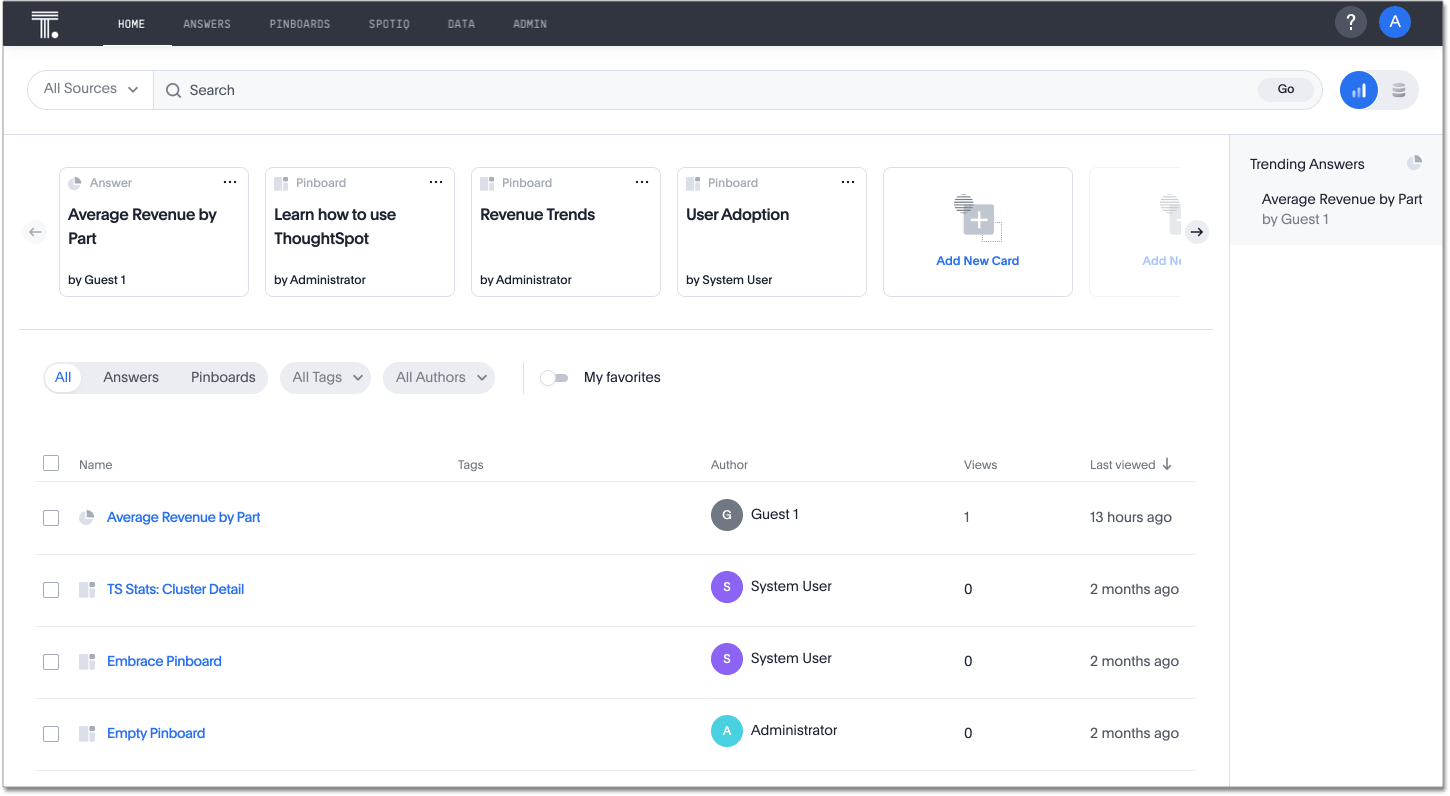
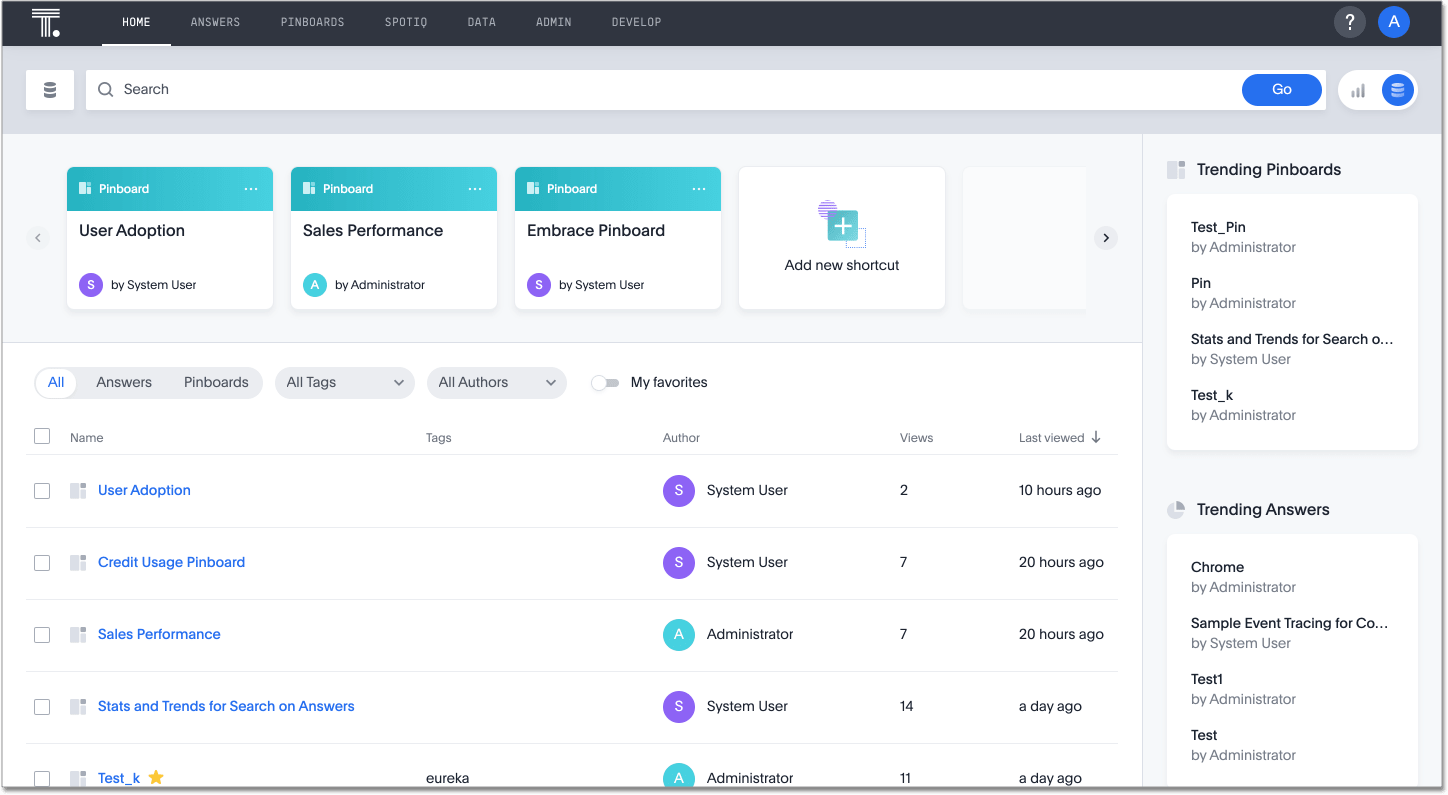
SCAL-82442, 82443, 82444 sticky search toggle, new home page screenshots, faster indexing

diff --git a/index.html b/index.html
@@ -39,8 +39,9 @@ title: ThoughtSpot Cloud Documentation
       <a href="{{ "/complex-search/linked-filters.html"| prepend: site.baseurl }}">Linked Pinboard Filters </a><br>
       <a href="{{ "/complex-search/selective-filters.html"| prepend: site.baseurl }}">Selective Pinboard Filters </a><br>
       <a href="{{ "/admin/thoughtspot-one/query-intelligence-pinboard.html"| prepend: site.baseurl }}">Search on Answers Pinboard </a><br>
-      <a href="{{ site.baseurl }}/spotiq/customization.html">Custom SpotIQ analysis </a><br>
-      <a href="{{ site.baseurl }}/reference/api/pinboard-export-api.html">Pinboard Export API</a>
+      <a href="{{ site.baseurl }}/spotiq/customization.html">Custom SpotIQ analysis <span class="badge badge-update">Update</span></a><br>
+      <a href="{{ site.baseurl }}/reference/api/pinboard-export-api.html">Pinboard Export API</a><br>
+      <a href="{{ site.baseurl }}/reference/api/tml-api.html">TML Import, Export, and Validate API <span class="badge badge-update">New!</span></a>
 
   </div>
   <div class="grid-child">
@@ -70,7 +71,7 @@ title: ThoughtSpot Cloud Documentation
       <a href="{{ "/admin/ts-cloud/style-customization.html"| prepend: site.baseurl }}">Style Customization </a><br>
       <a href="{{ "/admin/ts-cloud/customize-help.html"| prepend: site.baseurl }}">Help Customization </a><br>
       <a href="{{ "/admin/ts-cloud/use-agreement.html"| prepend: site.baseurl }}">Use Agreement </a><br>
-      <a href="{{ "/admin/ts-cloud/performance-tracking.html"| prepend: site.baseurl }}">Performance Tracking <span class="badge badge-update">Update</span></a><br>
+      <a href="{{ "/admin/ts-cloud/performance-tracking.html"| prepend: site.baseurl }}">Performance Tracking </a><br>
       <a href="{{ "/admin/ts-cloud/user-adoption.html"| prepend: site.baseurl }}">User Adoption Pinboard </a>
       <a href="{{ "/admin/ts-cloud/consumption-pricing.html"| prepend: site.baseurl }}">Consumption-based Pricing </a></p>
   </div>

diff --git a/_admin/thoughtspot-one/synonyms.md b/_admin/thoughtspot-one/synonyms.md
@@ -1,11 +1,11 @@
 ---
 title: [Create Worksheet synonyms for search on Answers]
 summary: "Create synonyms for column names in your Worksheets to support search on existing Answers and Pinboards."
-last_updated: 4/5/2021
+last_updated: 4/6/2021
 sidebar: mydoc_sidebar
 permalink: /:collection/:path.html
 ---
-As an analyst, you want to create the best search experience possible for your users. You can enhance the search experience of the content built on Worksheets you own or maintain by adding common search terms to your Worksheet glossary. For example, your users may be searching for information about `products`, but the column name may be `product full name`. You can make `products` a synonym of `product full name`, so users can easily find this information. The **Search terms** section on each Worksheet lists the most common search terms for the Worksheet that result in no or few matches in the system, so you can map them to the correct column name. This feature is in <span class="label label-beta">Beta</span> and off by default; [contact ThoughtSpot Support]({{ site.baseurl }}/admin/misc/contact.html) to enable it. This feature depends on Mixpanel tracking.
+As an analyst, you want to create the best search experience possible for your users. You can enhance the search experience of the content built on Worksheets you own or maintain by adding common search terms that the system cannot find a good match for to your Worksheet glossary. For example, your users may be searching for information about `products`, but the column name may be `product full name`. You can make `products` a synonym of `product full name`, so users can easily find this information. The **Search terms** section on each Worksheet lists the most common search terms for the Worksheet that do not match with any columns in the Worksheet, so you can map them to the correct column name. This feature is in <span class="label label-beta">Beta</span> and off by default; [contact ThoughtSpot Support]({{ site.baseurl }}/admin/misc/contact.html) to enable it. This feature depends on Mixpanel tracking.
 
 To add common search terms with no matches to your Worksheet glossary, follow these steps:
 
@@ -13,7 +13,7 @@ To add common search terms with no matches to your Worksheet glossary, follow th
 
 2. Select **Search Terms** from the navigation bar under the Worksheet name.
 
-3. If users have not had any problems searching for or creating their own Answers and Pinboards built on this Worksheet, the system displays the message "No vocabulary issues found." If users are having trouble, the system displays a list of search terms and encourages you to build the Worksheet's glossary.
+3. If users have not had any problems searching for or creating their own Answers and Pinboards built on this Worksheet, the system displays the message "No search terms found." If users are having trouble, the system displays a list of search terms and encourages you to build the Worksheet's glossary.
 
 4. On the **Select a search term** pane on the left side of the screen, you see a list of common search terms with no or few matches. Users often search for these terms, but do not click on anything, or the search does not generate any results.
 

diff --git a/_includes/content/new-features-cloud-release.md b/_includes/content/new-features-cloud-release.md
@@ -19,11 +19,6 @@ The latest release of ThoughtSpot Cloud contains several new and enhanced featur
 </ul>
 </dd></dlentry>
 
-<dlentry id="synonyms">
-<dt>Create Worksheet synonyms for search on Answers</dt>
-<dd><p>You can enhance the search experience of the content built on Worksheets you own or maintain by adding common search terms to your Worksheet glossary. This feature allows you to support the way your users search on existing Answers and Pinboards. See <a href="{{ site.baseurl }}/admin/thoughtspot-one/synonyms.html">Create Worksheet synonyms for search on Answers</a>.</p>
-<p>This feature is in <span class="label label-beta">Beta</span> and off by default; <a href="{{ site.baseurl }}/admin/misc/contact.html">contact ThoughtSpot Support</a> to enable it.</p></dd></dlentry>
-
 <dlentry id="query-dashboard">
 <dt>Enhancements to the Search on Answers Pinboard</dt>
 <dd>The <a href="{{ site.baseurl }}/admin/thoughtspot-one/query-intelligence-pinboard.html">Search on Answers Pinboard</a> contains several new or updated visualizations, including <strong>Top search queries on existing Answers</strong>, <strong>Position at which users are clicking</strong>, and <strong>What results users are finding useful with autocomplete suggestions</strong>. These new visualizations provide more information about click position, what information users look for, and what information they cannot find. You can also view the <a href="{{ site.baseurl }}/admin/thoughtspot-one/query-intelligence-pinboard.html#best-practices">best practices</a> for this Pinboard.
@@ -43,6 +38,14 @@ The latest release of ThoughtSpot Cloud contains several new and enhanced featur
 <p> Refer to <a href="{{ site.baseurl }}/admin/ts-cloud/new-answer-experience">New Answer experience</a> for more information on the behavior of these features.</p>
 
 </dd></dlentry>
+
+<dlentry id="sticky-search-toggle">
+<dt>Sticky Search Answers/ Search Data toggle</dt>
+<dd>This release makes the Search Answers/ Search Data toggle <img src="{{ site.baseurl }}/images/search-toggle-answers.png" alt="search toggle" class="inline"/> sticky. ThoughtSpot now remembers your choice across sessions when you switch between <a href="{{ site.baseurl }}/end-user/search/search-answers.html">Search Answers</a> and <a href="{{ site.baseurl }}/end-user/search/search-data.html">Search Data</a>.</dd></dlentry>
+
+<dlentry id="latency">
+<dt>Improvements in indexing latency for Search Answers</dt>
+<dd>This release improves indexing latency to less than 10 minutes, from 6 hours previously. Now, when you create, modify, or delete a new object, update user permissions, or otherwise make changes within ThoughtSpot, the product reflects these changes within 10 minutes. If you create a new Answer, users can search for and find it 10 minutes after you create it.</dd></dlentry>
 
 <dlentry id="unicode">
 <dt>Unicode support</dt>

diff --git a/_end-user/thoughtspot-one/thoughtspot-one-homepage.md b/_end-user/thoughtspot-one/thoughtspot-one-homepage.md
@@ -24,19 +24,19 @@ To search your data, either click on the **Search** tab from the top navigation 
 See [Searching data]({{ site.baseurl }}/end-user/search/search-data.html) for more information on searching your data.
 
 {: id="quick-links"}
-## Access and create quick links to your most-used Answers and Pinboards
+## Access and create shortcuts to your most-used Answers and Pinboards
 When you first view the ThoughtSpot home page, you can see a row of empty cards for quick links just below the Search bar. Use these cards to create shortcuts for Answers or Pinboards you reference often.
 
-To create shortcut cards, follow these steps:
+To create shortcuts, follow these steps:
 
-1. Click **Add New Card** from the end of the row of existing shortcuts.<br>
-    You may need to use the right arrow button to get to the **Add New Card** option, if you already have several shortcuts.
+1. Click **Add new shortcut** from the end of the row of existing shortcuts.<br>
+    You may need to use the right arrow button to get to the **Add new shortcut** option, if you already have several shortcuts.
 
-2. The **Add a new card** window modal appears, filtered to show your favorites.
+2. The **Add a new shortcut** window modal appears, filtered to show your favorites. To search among your favorites for the Answer or Pinboard you would like to add, use the search bar at the top right of the shortcut window.
 
-3. To choose from all Answers and Pinboards you have access to, select **All** next to **My Favorites**.
+3. To choose from all Answers and Pinboards you have access to, select **All** next to **My Favorites**. To search among these objects, use the search bar at the top right of the shortcut window.
 
-4. Select an object, and click **Add**. The modal only shows 9 objects per page. To find an object not on the first page, scroll down and select **Next** at the bottom right of the modal.
+4. Select an object, and click **Add**. The shortcut window only shows 9 objects per page. To find an object not on the first page, use the search bar, or scroll down and select **Next** at the bottom right of the modal.
 
 Note that you can only add one object shortcut at a time. You can have up to 20 Answer and Pinboard shortcuts on the ThoughtSpot home page.
 

diff --git a/_includes/content/new-answer-experience-deprecations.md b/_includes/content/new-answer-experience-deprecations.md
@@ -3,6 +3,6 @@ The following features are <strong><em>not</em></strong> available with the new 
 <li> <a href="{{ site.baseurl }}/end-user/search/replay-search.html">Replay search</a></li>
 <li> <a href="{{ site.baseurl }}/admin/system-monitor/monitor-pinboards.html">Learn how to use ThoughtSpot Pinboard</a></li>
 <li> <strong>Browser back button</strong>: you can no longer use the browser back button to go back one step in a search or Answer. Instead, use the new product back button to the left of an Answer name.</li>
-<li> <strong>Multiple join path resolution within a search</strong>: when you try to search on columns with more than one possible join path, the system no longer allows you to define the join path within the search. Instead, the system now prompts you to resolve this issue and avoid confusion or incorrect data by creating a Worksheet with the correct join path</li>
-<li> <strong>Send feedback</strong>: The option to send product feedback, from the more options menu <img src="{{ site.baseurl }}/images/icon-more-10px.png" alt="more options menu icon" class="inline"/> on an Answer or search</li>
+<li> <strong>Multiple join path resolution within the formula editor or a search</strong>: when you try to search on columns with more than one possible join path, the system no longer allows you to define the join path within the search. Similarly, when you try to create a formula with columns with more than one possible join path, the system does not allow you to define the join path. Instead, the system now prompts you to resolve this issue and avoid confusion or incorrect data by creating a Worksheet with the correct join path.</li>
+<li> <strong>Send feedback</strong>: The option to send product feedback, from the more options menu <img src="{{ site.baseurl }}/images/icon-more-10px.png" alt="more options menu icon" class="inline"/> on an Answer or search.</li>
 <li><strong>Client-side summaries for tables</strong>: We consolidated client-side column summaries and headlines from the backend into new headline summaries that come from the backend. These headline summaries are integrated with the table columns. You can pin them to Pinboards.</li></ul>

diff --git a/_includes/content/new-answer-experience-features.md b/_includes/content/new-answer-experience-features.md
@@ -1,6 +1,6 @@
 <ul>
-<li> <a href="{{ site.baseurl }}/end-user/search/about-tables.html">Table column summaries</a>: Conditional and number formatting for table column summaries is now available. Column summaries are aligned with their respective columns and are part of the table, although you can configure their number and conditional formatting separately.</li>
 <li> <a href="{{ site.baseurl }}/complex-search/how-to-add-formula.html">Improved Formula Editor</a>: The new formula editor has a larger editor window, allows new lines, and has a new layout with integrated help.</li>
+<li> <a href="{{ site.baseurl }}/end-user/search/about-tables.html">Table column summaries</a>: Conditional and number formatting for table column summaries is now available. Column summaries are aligned with their respective columns and are part of the table, although you can configure their number and conditional formatting separately.</li>
 <li> <a href="{{ site.baseurl }}/end-user/search/apply-conditional-formatting.html#table">Table configuration</a>:  Conditional formatting for attributes is now available for tables. Conditional formatting is now part of the <strong>Table configuration</strong> panel instead of being a separate modal. You can now set the <a href="{{ site.baseurl }}/end-user/search/about-tables.html#content-density">content density</a> and <a href="{{ site.baseurl }}/end-user/search/about-tables.html#table-theme">theme</a> (outline, row, or zebra) of your table.</li>
 <li> <a href="{{ site.baseurl }}/end-user/search/apply-conditional-formatting.html#conditional-formatting-chart">Chart configuration</a>: Conditional formatting for chart measures is now part of the <strong>Chart configuration</strong> panel instead of being a separate modal.</li>
 <li> <a href="{{ site.baseurl }}/complex-search/change-the-view.html#back-button">Back button</a>: Use the in-product back button to the left of a search or Answer name to go back 1 step each time you make a change in an Answer (for example, when you add a new column to the search, drill down, or sort).</li>

diff --git a/_end-user/search/search-answers.md b/_end-user/search/search-answers.md
@@ -1,6 +1,6 @@
 ---
 title: ["Search Answers"]
-last_updated: 2/22/2021
+last_updated: 4/6/2021
 summary: "You search existing Answers and Pinboards to get correct information."
 sidebar: mydoc_sidebar
 permalink: /:collection/:path.html
@@ -17,7 +17,7 @@ Search Answers eliminates redundant work of constructing new Answers and Pinboar
 
 ![]({{ site.baseurl }}/images/search-answers.png "Search across existing Answers")
 
-1. To search Answers and Pinboards, toggle the **Search type** icon to **Search Answers** at the top right, next to the search bar: ![]({{ site.baseurl }}/images/search-toggle-answers.png){: .inline}.
+1. To search Answers and Pinboards, toggle the **Search type** icon to **Search Answers** at the top right, next to the search bar: ![]({{ site.baseurl }}/images/search-toggle-answers.png){: .inline}. ThoughtSpot remembers your choice across sessions when you switch between <strong>Search Answers</strong> and <strong>Search Data</strong>.
 
 2. You can select a specific Worksheet from the **Sources** dropdown to the left of the search bar. By default, you search across all Worksheets for which you have access.
 

diff --git a/_end-user/search/search-data.md b/_end-user/search/search-data.md
@@ -1,6 +1,6 @@
 ---
 title: ["Search data"]
-last_updated: 11/16/2020
+last_updated: 4/6/2021
 summary: "You use search to answer questions about your data without having to consult a data analyst."
 sidebar: mydoc_sidebar
 redirect_from:
@@ -9,7 +9,7 @@ permalink: /:collection/:path.html
 ---
 ## How do I search data?
 
-To search data, make sure that the search bar icon is set to **Search data**.
+To search data, make sure that the search bar icon is set to **Search data**. ThoughtSpot remembers your choice across sessions when you switch between <strong>Search Answers</strong> and <strong>Search Data</strong>.
 
 ![]({{ site.baseurl }}/images/search-data.png "Search bar for Search data")
 
